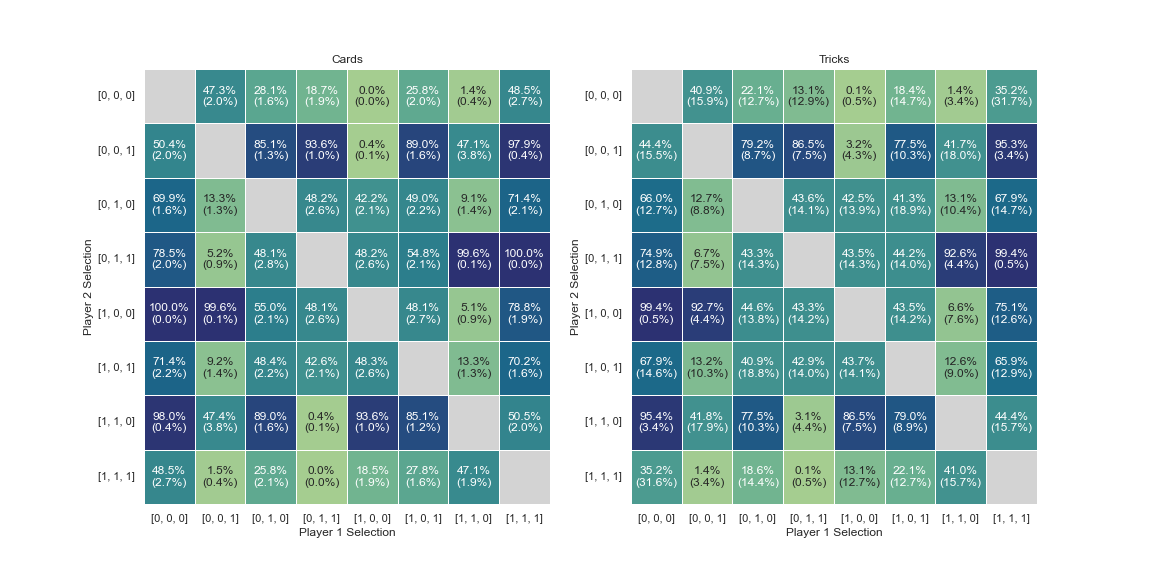
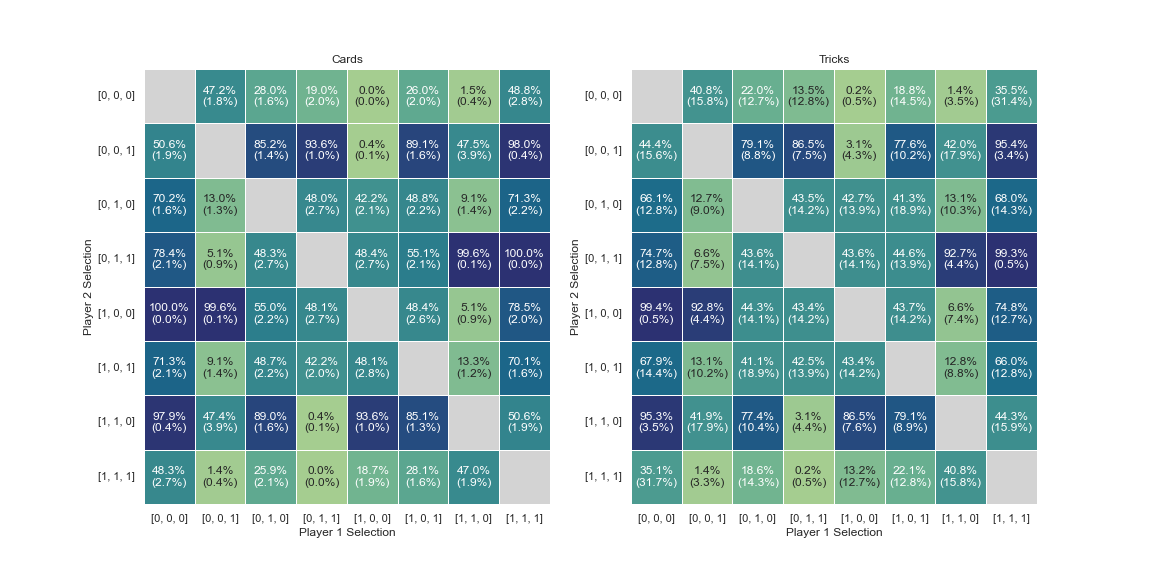
last minute fixes

diff --git a/data_gen.py b/data_gen.py
@@ -75,3 +75,23 @@ def save_decks(n_decks: int, seed_path = None, filepath = "data") -> str:
         json.dump(state, f)
 
     return deck_file
+
+
+
+def add_decks( n_new_decks, old_decks_path: "filepath", seed_path: "filepath", filepath = "data")-> str: 
+
+    """returns filename of a new set of decks with n_new_decks more decks"""
+
+    old_decks = np.load(old_decks_path)
+    new_decks = np.load(save_decks(n_new_decks, seed_path = seed_path))
+
+    all_decks = np.concatenate((old_decks, new_decks))
+
+    deck_file = f"{filepath}/decks_{datetime.datetime.now().strftime('%Y%m%d%H%M%S')}.npy"
+    
+    #save_decks
+    np.save(deck_file, all_decks)
+
+
+    return deck_file
+

diff --git a/main_simulation.py b/main_simulation.py
@@ -206,5 +206,4 @@ def simulate_games(deck_path: 'filepath', combinations = COMBINATIONS) -> "array
     
    
 
-    return results, results_cards_rate, results_tricks_rate, ties_cards_rate, ties_tricks_rate
-
+    return results, results_cards_rate, results_tricks_rate, ties_cards_rate, ties_tricks_rate, len(decks)

diff --git a/README.md b/README.md
@@ -8,7 +8,8 @@ This is my penny game simulation repository!! It is composed of three main pytho
 To practice creating decks, running the simulation, and saving a visualization, use the **run_simulations.ipynb** notebook
 
 ## data_gen.py
-This file contains all the data generating functions. It can generate and save decks from a specific random state. 
+This file contains all the data generating functions. It can generate and save decks from a specific random state. It also can add decks
+to a current deck to add simulations
 
 ## main_simulation.py
 this file contains the main simulation of the card games. It has a function "play_game" to play the game once on a deck, and it has a function "simulate_games" to simulate and save data for all possible games in a set of decks
@@ -17,6 +18,9 @@ this file contains the main simulation of the card games. It has a function "pla
 ## visualizations.py
 this file contains one function to generate a file with two heatmaps of the results for tricks and for cards
 
-This project is still very far from perfect. I would like to edit the mechanism by which seeds are saved and reopened, as I'm not entirely sure that it is restoring the state as I would like it to. 
+This project is still very far from perfect. I realized that it is impossible to add new simulations to old simulations the way my simulate
+games is currently set up, so i need to rework that. Currently the only way to do this is to add decks to old decks and to restart the simulation. I am probably going to split up the simulate games function into 3 different functions, one to simulate each combination, one to add together the combinations, and one to reshape the output for visualization.
+
+I would like to edit the mechanism by which seeds are saved and reopened, as I'm not entirely sure that it is restoring the state as I would like it to. 
 
 I would also like to add more complex visualizations in the future, but these heatmaps are a preliminary result. 
